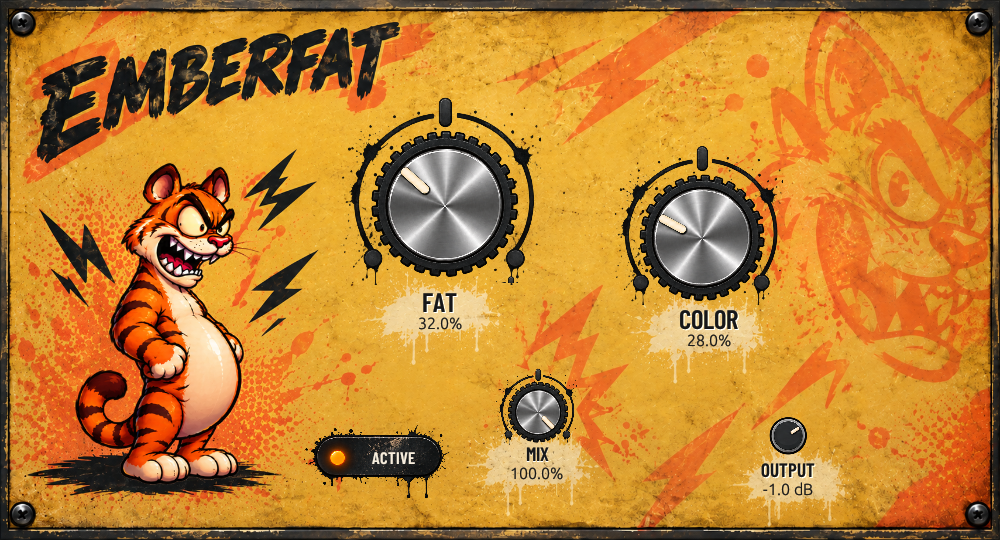
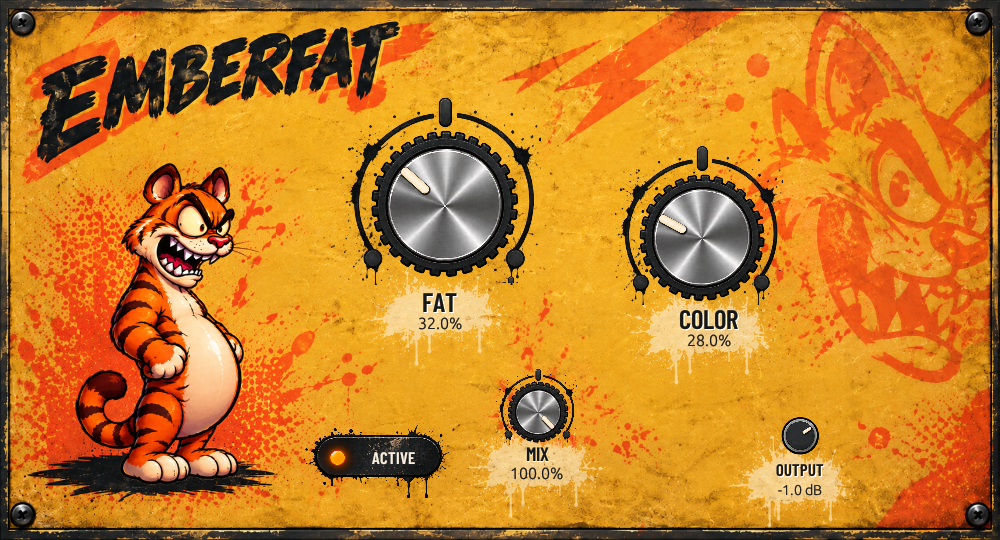
Show current EmberFat interface in the repository README

diff --git a/README.md b/README.md
@@ -1,3 +1,11 @@
+# EmberFat
 
-## OLD VERSION 
-CHECK [BRANCHES](https://github.com/0xPRISMM/EmberFat/tree/codex/windows-release-path)
+Stereo saturation VST3 by **eM4**.
+
+![Current EmberFat interface](emberfat-ui.png)
+
+The current interface uses the supplied amber background, silver controls and six tiger stages. OUTPUT is smaller and aligned farther right.
+
+The 0.2.0 processor adds smooth knob changes, crossfaded bypass and 4x oversampling. See the [current source and build instructions](https://github.com/0xPRISMM/EmberFat/tree/codex/smooth-saturation) and [DSP review](https://github.com/0xPRISMM/EmberFat/blob/codex/smooth-saturation/docs/DSP_REVIEW.md).
+
+[Earlier source branch](https://github.com/0xPRISMM/EmberFat/tree/codex/windows-release-path)
